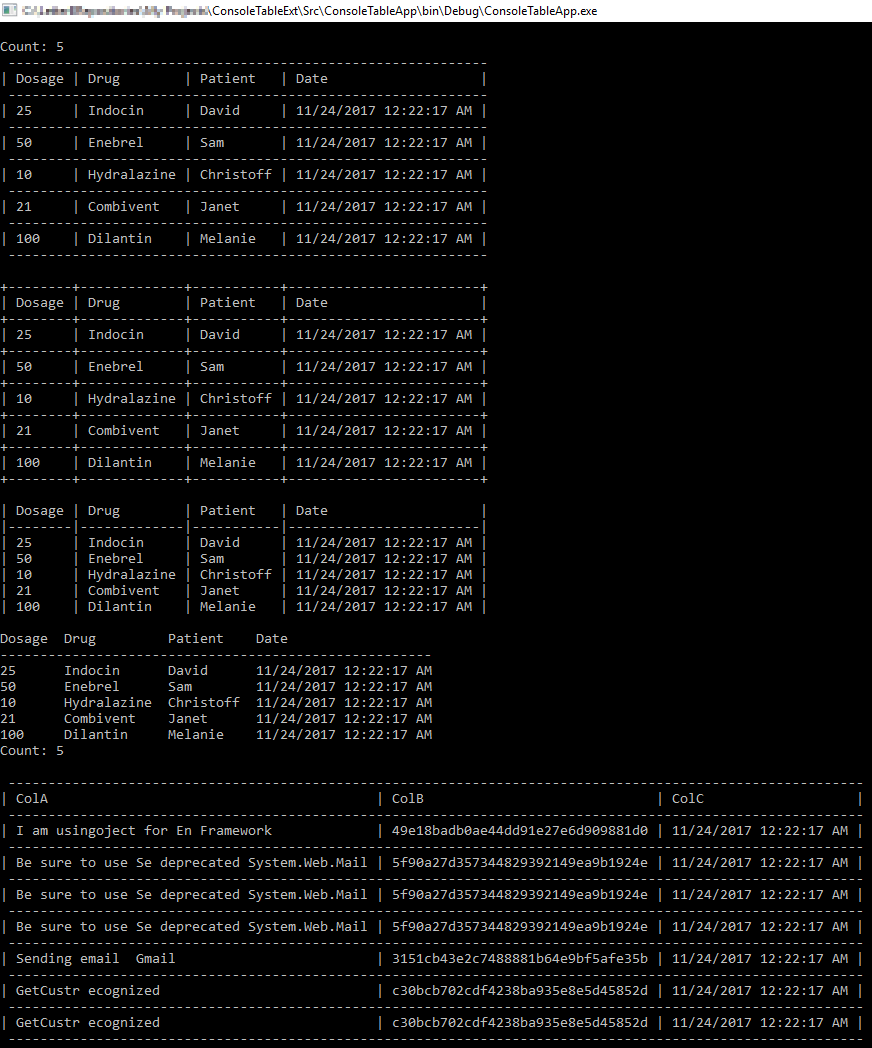
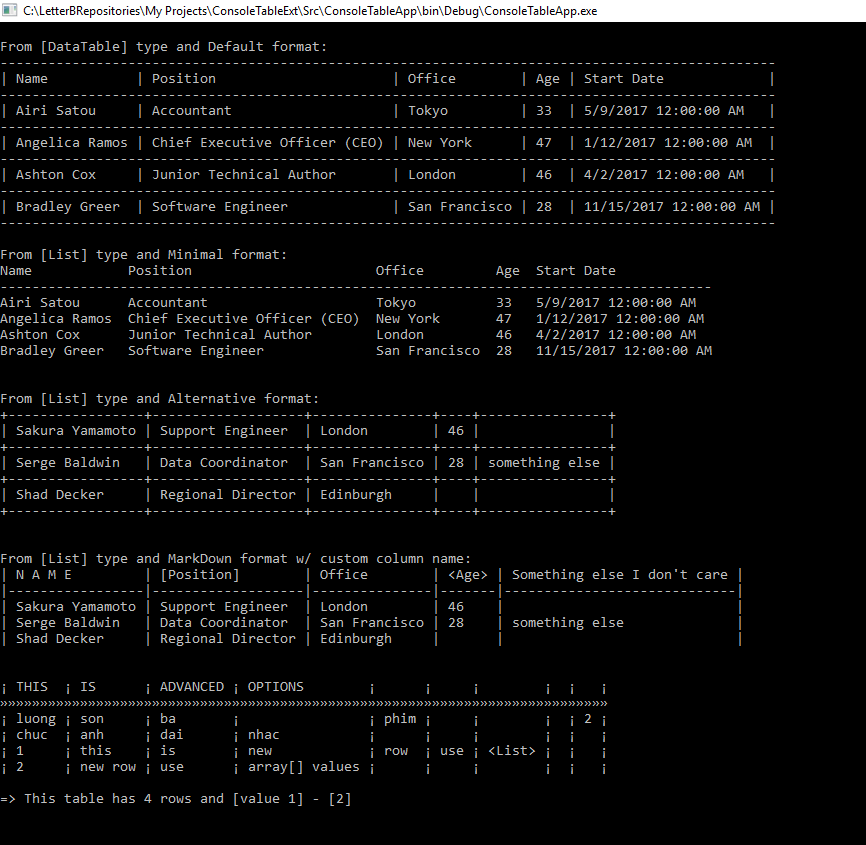
- fix Trim column issue - implement RowInfo feature - advance options

diff --git a/Src/ConsoleTableApp/Program.cs b/Src/ConsoleTableApp/Program.cs
@@ -9,102 +9,82 @@ namespace ConsoleTableApp
     {
         static void Main(string[] args)
         {
-            DataTable table = new DataTable();
-            table.Columns.Add(null, typeof(int));
-            table.Columns.Add("Drug", typeof(string));
-            table.Columns.Add("Patient", typeof(string));
-            table.Columns.Add("Date", typeof(string));
+            Console.WriteLine();
+            Console.WriteLine("From [DataTable] type and Default format:");
+            var tableBuilder = ConsoleTableBuilder.From(SampleTableData());
+            tableBuilder.ExportAndWriteLine();
 
-            DataRow row = table.NewRow();
-            row[0] = 999;
-            row[1] = "y";
-            row[2] = "str";
-            row[3] = "x";
-
-            ConsoleTableBuilder
-                .From(GetTable())
-                .WithColumn(new List<string> {"1", null, null})
-                .AddRow(null, null, "3", null, "5", "6", "7")
-                .AddRow(new List<object>{ null, 1, "2" })
-                .AddRow(row)
-                .AddRow(new List<List<object>>
-                {
-                    new List<object>{"1",2,3,4},
-                    new List<object>{"x", "y", 999}
-                })
-                .WithFormat(ConsoleTableBuilderFormat.Alternative)
-                .WithOptions(new ConsoleTableBuilderOption {TrimColumn = false})
-                .ExportAndWriteLine();
-
-            ConsoleTableBuilder.From(new List<object[]>
-                {
-                    new object[] {"1", "2", 3, null},
-                    new object[] {"1", null, 2},
-                    new object[] {"122"}
-                })
-                .WithColumn(new List<string> {null, "1", null})
-                .AddColumn("helo")
-                .AddColumn("helo 1")
-                .AddColumn("helo 2")
-                .AddColumn("1","2","3","4","5")
-                .WithColumn("hello", "co", "ba")
-                .WithFormat(ConsoleTableBuilderFormat.Alternative)
-                .WithOptions(new ConsoleTableBuilderOption{TrimColumn = false })
-                .ExportAndWrite();
+            Console.WriteLine("From [List] type and Minimal format:");
+            tableBuilder.WithFormat(ConsoleTableBuilderFormat.Minimal).ExportAndWriteLine();
 
             Console.WriteLine();
 
-            ConsoleTableBuilder.From(new List<List<object>>
-                {
-                    new List<object> {"1", 2, null, 4},
-                    new List<object> {null, "luong son ba chuc", "anh dai"},
-                    new List<object> {"133 f afa faf as",}
-                })
-                .WithFormat(ConsoleTableBuilderFormat.Minimal)
-                .ExportAndWriteLine();
-
-            ConsoleTableBuilder
-                .From(new List<object[]> {new[] {"1", null}, new[] {null, "4"}})
+            var listBuilder = ConsoleTableBuilder.From(SampleListData);
+            Console.WriteLine("From [List] type and Alternative format:");
+            listBuilder
                 .WithFormat(ConsoleTableBuilderFormat.Alternative)
                 .ExportAndWriteLine();
 
-            ConsoleTableBuilder
-                .From(new List<object[]> { new object[] { null, null }, new object[] { null, null } })
-                .WithFormat(ConsoleTableBuilderFormat.Default)
-                .WithOptions(new ConsoleTableBuilderOption { TrimColumn = true })
+            Console.WriteLine();
+
+            Console.WriteLine("From [List] type and MarkDown format w/ custom column name:");
+            listBuilder
+                .WithFormat(ConsoleTableBuilderFormat.MarkDown)
+                .WithColumn(new List<string>{ "N A M E" , "[Position]", "Office", "<Age>", "Something else I don't care"})
                 .ExportAndWriteLine();
 
-            ConsoleTableBuilder
-                .From(new List<object[]> { new object[] { null, null }, new object[] { null, null } })
-                .WithFormat(ConsoleTableBuilderFormat.Default)
-                .ExportAndWriteLine();
+            Console.WriteLine();
 
-            var builder = ConsoleTableBuilder.From(GetTable());
-            builder.Export().ToString();
-            builder.WithFormat(ConsoleTableBuilderFormat.Default).ExportAndWriteLine();
-            builder.WithFormat(ConsoleTableBuilderFormat.Alternative).ExportAndWriteLine();
-            builder.WithFormat(ConsoleTableBuilderFormat.MarkDown).ExportAndWriteLine();
-            builder.WithFormat(ConsoleTableBuilderFormat.Minimal).ExportAndWriteLine();
+
+            var arrayBuilder = ConsoleTableBuilder.From(new List<object[]>
+            {
+                new object[] {"luong", "son", "ba", null, "phim", null, null, null, 2, null},
+                new object[] {"chuc", "anh", "dai", "nhac", null, null, null }
+            });
+
+            arrayBuilder
+                .AddRow(new List<object> {1, "this", "is", "new", "row", "use", "<List>", null, null, null})
+                .AddRow(new object[] {"2", "new row", "use", "array[] values", null, null})
+                .WithOptions(new ConsoleTableBuilderOption
+                {
+                    IncludeRowInfo = IncludeRowCountType.Bottom,
+                    RowInfoFormat = "\n=> This table has {ROW_COUNT} rows and [{0}] - [{1}]",
+                    RowInfoParams = new object[] {"value 1",  2},
+                    TrimColumn = true,
+                    Delimiter = "¡",
+                    DividerString = "»",
+                })
+                .WithFormat(ConsoleTableBuilderFormat.MarkDown)
+                .WithColumn(new List<string> {"THIS", "IS", "ADVANCED", "OPTIONS"})
+                .ExportAndWriteLine();
 
             Console.ReadKey();
         }
 
-        static DataTable GetTable()
+        static DataTable SampleTableData()
         {
-            // Here we create a DataTable with four columns.
             DataTable table = new DataTable();
-            table.Columns.Add(null, typeof(int));
-            table.Columns.Add("Drug", typeof(string));
-            table.Columns.Add("Patient", typeof(string));
-            table.Columns.Add("Date", typeof(DateTime));
+            table.Columns.Add("Name", typeof(string));
+            table.Columns.Add("Position", typeof(string));
+            table.Columns.Add("Office", typeof(string));
+            table.Columns.Add("Age", typeof(int));
+            table.Columns.Add("Start Date", typeof(DateTime));
 
-            // Here we add five DataRows.
-            table.Rows.Add(null, "Indocin", "David", DateTime.Now);
-            table.Rows.Add(50, null, "Sam", DateTime.Now);
-            table.Rows.Add(10, "Hydralazine", null, DateTime.Now);
-            table.Rows.Add(21, "Combivent", "Janet", DateTime.Now);
-            table.Rows.Add(100, "Dilantin", "Melanie", null);
+            table.Rows.Add("Airi Satou", "Accountant", "Tokyo", 33, new DateTime(2017, 05, 09));
+            table.Rows.Add("Angelica Ramos", "Chief Executive Officer (CEO)", "New York", 47, new DateTime(2017, 01, 12));
+            table.Rows.Add("Ashton Cox", "Junior Technical Author", "London", 46, new DateTime(2017, 04, 02));
+            table.Rows.Add("Bradley Greer", "Software Engineer", "San Francisco", 28, new DateTime(2017, 11, 15));
+
             return table;
         }
+
+        static List<List<object>> SampleListData = new List<List<object>>
+        {
+            new List<object>{ "Sakura Yamamoto", "Support Engineer", "London", 46},
+            new List<object>{ "Serge Baldwin", "Data Coordinator", "San Francisco", 28, "something else" },
+            new List<object>{ "Shad Decker", "Regional Director", "Edinburgh"},
+        };
+
+
     }
 }

diff --git a/Src/ConsoleTableExt/ConsoleTableBuilderExtensions.cs b/Src/ConsoleTableExt/ConsoleTableBuilderExtensions.cs
@@ -134,7 +134,7 @@ namespace ConsoleTableExt
                 case ConsoleTableBuilderFormat.Default:
                     return CreateTableForDefaultFormat(builder);
                 case ConsoleTableBuilderFormat.Minimal:
-                    builder.Options.Delimiter = Char.MinValue;
+                    builder.Options.Delimiter = string.Empty;
                     return CreateTableForMarkdownFormat(builder);
                 case ConsoleTableBuilderFormat.Alternative:
                     return CreateTableForAlternativeFormat(builder);
@@ -158,9 +158,9 @@ namespace ConsoleTableExt
         private static StringBuilder CreateTableForDefaultFormat(ConsoleTableBuilder builder)
         {
             var strBuilder = new StringBuilder();
-            if (builder.Options.IncludeRowCount == IncludeRowCountType.Top)
+            if (builder.Options.IncludeRowInfo == IncludeRowCountType.Top)
             {
-                strBuilder.AppendLine($"Count: {builder.Rows.Count}");
+                strBuilder.AppendFormat(BuildRowInfo(builder).Options.RowInfoFormat, builder.Options.RowInfoParams);
             }
 
             // create the string format with padding
@@ -178,7 +178,7 @@ namespace ConsoleTableExt
             var results = builder.Rows.Select(row => string.Format(format, row.ToArray())).ToList();
 
             // create the divider
-            var divider = string.Join("", Enumerable.Repeat("-", maxRowLength)) + " ";
+            var divider = string.Join("", Enumerable.Repeat(builder.Options.DividerString, maxRowLength));
 
             // header
             if (builder.Column != null && builder.Column.Any() && builder.Column.Max(x => (x ?? string.Empty).ToString().Length) > 0)
@@ -195,9 +195,9 @@ namespace ConsoleTableExt
 
             strBuilder.AppendLine(divider);
 
-            if (builder.Options.IncludeRowCount == IncludeRowCountType.Bottom)
+            if (builder.Options.IncludeRowInfo == IncludeRowCountType.Bottom)
             {
-                strBuilder.AppendLine($"Count: {builder.Rows.Count}");
+                strBuilder.AppendFormat(BuildRowInfo(builder).Options.RowInfoFormat, builder.Options.RowInfoParams);
             }
             return strBuilder;
         }
@@ -205,9 +205,9 @@ namespace ConsoleTableExt
         private static StringBuilder CreateTableForMarkdownFormat(ConsoleTableBuilder builder)
         {
             var strBuilder = new StringBuilder();
-            if (builder.Options.IncludeRowCount == IncludeRowCountType.Top)
+            if (builder.Options.IncludeRowInfo == IncludeRowCountType.Top)
             {
-                strBuilder.AppendLine($"Count: {builder.Rows.Count}");
+                strBuilder.AppendFormat(BuildRowInfo(builder).Options.RowInfoFormat, builder.Options.RowInfoParams);
             }
 
             // create the string format with padding
@@ -233,7 +233,7 @@ namespace ConsoleTableExt
             }
 
             // create the divider
-            var divider = Regex.Replace(columnHeaders, @"[^|]", "-");
+            var divider = Regex.Replace(columnHeaders, @"[^|]", builder.Options.DividerString);
 
             strBuilder.AppendLine(columnHeaders);
             strBuilder.AppendLine(divider);
@@ -242,9 +242,9 @@ namespace ConsoleTableExt
             var results = builder.Rows.Skip(skipFirstRow ? 1 : 0).Select(row => string.Format(format, row.ToArray())).ToList();
             results.ForEach(row => strBuilder.AppendLine(row));
 
-            if (builder.Options.IncludeRowCount == IncludeRowCountType.Bottom)
+            if (builder.Options.IncludeRowInfo == IncludeRowCountType.Bottom)
             {
-                strBuilder.AppendLine($"Count: {builder.Rows.Count}");
+                strBuilder.AppendFormat(BuildRowInfo(builder).Options.RowInfoFormat, builder.Options.RowInfoParams);
             }
 
             return strBuilder;
@@ -253,9 +253,9 @@ namespace ConsoleTableExt
         private static StringBuilder CreateTableForAlternativeFormat(ConsoleTableBuilder builder)
         {
             var strBuilder = new StringBuilder();
-            if (builder.Options.IncludeRowCount == IncludeRowCountType.Top)
+            if (builder.Options.IncludeRowInfo == IncludeRowCountType.Top)
             {
-                strBuilder.AppendLine($"Count: {builder.Rows.Count}");
+                strBuilder.AppendFormat(BuildRowInfo(builder).Options.RowInfoFormat, builder.Options.RowInfoParams);
             }
 
             // create the string format with padding
@@ -281,7 +281,7 @@ namespace ConsoleTableExt
             }
 
             // create the divider
-            var divider = Regex.Replace(columnHeaders, @"[^|]", "-");
+            var divider = Regex.Replace(columnHeaders, @"[^|]", builder.Options.DividerString);
             var dividerPlus = divider.Replace("|", "+");
 
             strBuilder.AppendLine(dividerPlus);
@@ -297,11 +297,21 @@ namespace ConsoleTableExt
             }
             strBuilder.AppendLine(dividerPlus);
 
-            if (builder.Options.IncludeRowCount == IncludeRowCountType.Bottom)
+            if (builder.Options.IncludeRowInfo == IncludeRowCountType.Bottom)
             {
-                strBuilder.AppendLine($"Count: {builder.Rows.Count}");
+                strBuilder.AppendFormat(BuildRowInfo(builder).Options.RowInfoFormat, builder.Options.RowInfoParams);
             }
             return strBuilder;
+        }
+
+        private static ConsoleTableBuilder BuildRowInfo(ConsoleTableBuilder builder)
+        {
+            if (builder.Options.RowInfoFormat.Contains("{ROW_COUNT}"))
+            {
+                builder.Options.RowInfoFormat = builder.Options.RowInfoFormat.Replace("{ROW_COUNT}", builder.Rows.Count.ToString());
+            }
+
+            return builder;
         }
     }
 }

diff --git a/Src/ConsoleTableExt/ConsoleTableBuilder.cs b/Src/ConsoleTableExt/ConsoleTableBuilder.cs
@@ -112,6 +112,10 @@ namespace ConsoleTableExt
                         {
                             columnLengths.RemoveAt(i);
                         }
+                        else
+                        {
+                            break;
+                        }
                     }
                 }
             }
@@ -119,16 +123,15 @@ namespace ConsoleTableExt
             return columnLengths;
         }
 
-        internal string Format(char delimiter)
+        internal string Format(string delimiter)
         {
             var columnLengths = ColumnLengths();
-            var delimiterStr = delimiter == char.MinValue ? string.Empty : delimiter.ToString();
 
             if (columnLengths.Count > 0)
             {
                 return (Enumerable.Range(0, columnLengths.Count)
-                            .Select(i => " " + delimiterStr + " {" + i + ",-" + columnLengths[i] + "}")
-                            .Aggregate((s, a) => s + a) + " " + delimiterStr).Trim();
+                            .Select(i => " " + delimiter + " {" + i + ",-" + columnLengths[i] + "}")
+                            .Aggregate((s, a) => s + a) + " " + delimiter).Trim();
             }
             else
             {

diff --git a/Src/ConsoleTableExt/ConsoleTableBuilderOption.cs b/Src/ConsoleTableExt/ConsoleTableBuilderOption.cs
@@ -1,16 +1,25 @@
-namespace ConsoleTableExt
+using System;
+
+namespace ConsoleTableExt
 {
     public class ConsoleTableBuilderOption
     {
         public ConsoleTableBuilderOption()
         {
-            Delimiter = '|';
-            IncludeRowCount = IncludeRowCountType.None;
+            Delimiter = "|";
+            DividerString = "-";
             TrimColumn = false;
+            IncludeRowInfo = IncludeRowCountType.None;
+            RowInfoFormat = string.Empty;
+            RowInfoParams = new[] {""};
         }
 
-        public IncludeRowCountType IncludeRowCount { get; set; }
-        public char Delimiter { get; set; }
+        public IncludeRowCountType IncludeRowInfo { get; set; }
+        public string RowInfoFormat { get; set; }
+        public object[] RowInfoParams { get; set; }
+
+        public string Delimiter { get; set; }
+        public string DividerString { get; set; }
 
         /// <summary>
         /// Trim empty columns on right side
